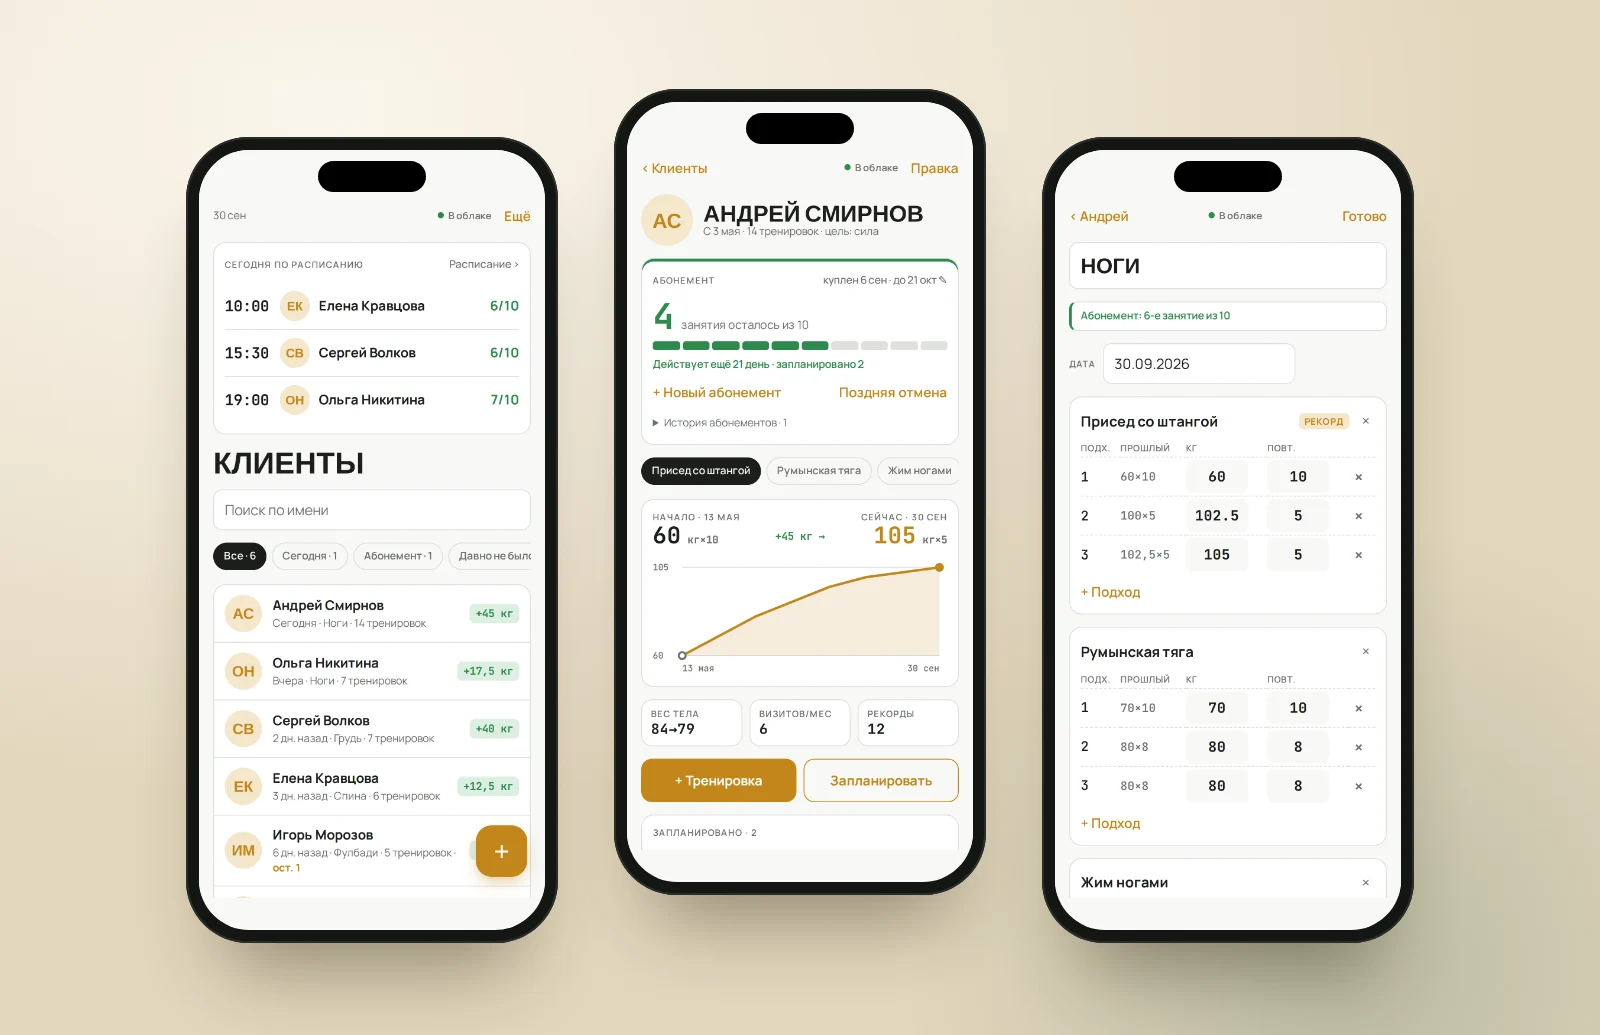
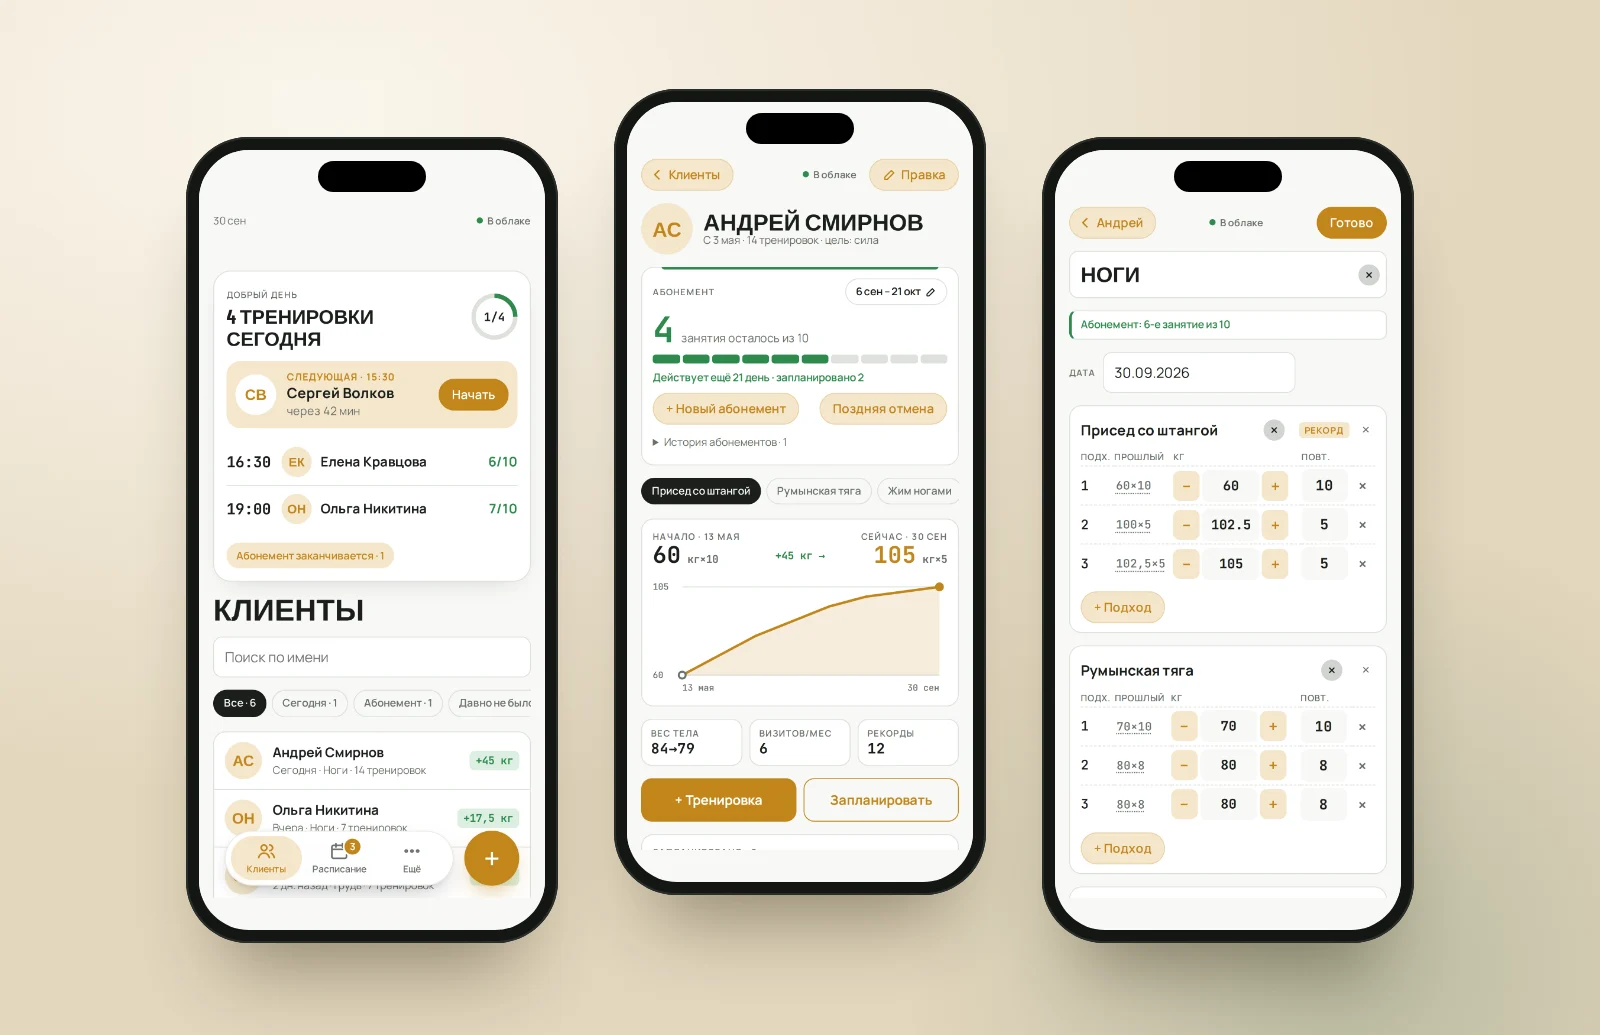
Update trainer journal case: new screenshots and features
Fresh screenshots of the current app (day status, pill tab bar,
±2.5 kg steppers, notification settings), updated feature list,
UX and audit paragraph, and WebApplication schema.

Claude-Session: https://claude.ai/code/session_016RatQZVUz716yK2VSFB6Jr

diff --git a/case-yana-samoylova.html b/case-yana-samoylova.html
@@ -195,22 +195,25 @@ document.documentElement.classList.add('js');try{if(sessionStorage.getItem('nav-
       "@id": "https://antonioavanzato.github.io/case-yana-samoylova.html#app",
       "name": "Журнал Зала",
       "alternateName": "PWA-журнал тренера Яны Самойловой",
-      "description": "Личное PWA-приложение персонального тренера для iPhone: карточки клиентов, журнал тренировок с весами и подходами, прогресс «было → стало» с графиком, абонементы со сроком действия и автосписанием, расписание и push-уведомления. Работает офлайн и синхронизируется с облаком.",
+      "description": "Личное PWA-приложение персонального тренера для iPhone: сводка дня, карточки клиентов, журнал тренировок с весами и подходами, прогресс «было → стало» с графиком, абонементы со сроком действия и автосписанием, расписание и push-уведомления. Работает офлайн, синхронизируется с облаком и еженедельно делает бэкап.",
       "applicationCategory": "BusinessApplication",
       "applicationSubCategory": "Фитнес, учёт клиентов",
       "operatingSystem": "iOS 16.4+, Android, веб (PWA)",
       "browserRequirements": "Требуется современный браузер; установка на экран «Домой»",
       "inLanguage": "ru-RU",
       "featureList": [
+        "Сводка дня: количество тренировок, следующий клиент с обратным отсчётом, прогресс дня",
         "Карточки клиентов с фото, целью и весом тела",
         "Журнал тренировок: упражнения, подходы, кг × повторы, подсказка прошлого результата",
+        "Кнопки ±2,5 кг и повтор прошлой тренировки в одно касание",
         "Прогресс «было → стало» с графиком и отметкой рекордов",
         "Абонементы на 5 и 10 занятий со сроком действия и автоматическим списанием",
         "Учёт поздних отмен",
-        "Расписание с повторами и прогнозом остатка абонемента",
+        "Расписание с повторами, счётчиком записей и прогнозом остатка абонемента",
         "Push-уведомления: утренняя сводка и напоминание перед тренировкой",
+        "Удаление с возможностью отмены",
         "Офлайн-режим и синхронизация через Firebase",
-        "Экспорт и импорт данных"
+        "Еженедельный автоматический бэкап на Google Диск, экспорт и импорт данных"
       ],
       "screenshot": [
         {
@@ -218,14 +221,14 @@ document.documentElement.classList.add('js');try{if(sessionStorage.getItem('nav-
           "url": "https://antonioavanzato.github.io/images/yanapro-journal-1.webp",
           "width": 1600,
           "height": 1035,
-          "caption": "Журнал Зала: список клиентов, карточка с абонементом и графиком прогресса, журнал тренировки"
+          "caption": "Журнал Зала: сводка дня и список клиентов, карточка с абонементом и графиком прогресса, журнал тренировки"
         },
         {
           "@type": "ImageObject",
           "url": "https://antonioavanzato.github.io/images/yanapro-journal-2.webp",
           "width": 1600,
           "height": 1035,
-          "caption": "Журнал Зала: расписание, push-уведомления на экране блокировки, новый абонемент"
+          "caption": "Журнал Зала: расписание, push-уведомления на экране блокировки, настройки уведомлений"
         }
       ],
       "softwareHelp": {
@@ -254,7 +257,8 @@ document.documentElement.classList.add('js');try{if(sessionStorage.getItem('nav-
         "@type": "Audience",
         "audienceType": "Персональный фитнес-тренер"
       },
-      "datePublished": "2026-09-28"
+      "datePublished": "2026-09-28",
+      "dateModified": "2026-09-30"
     },
     {
       "@type": "BreadcrumbList",
@@ -466,34 +470,41 @@ document.documentElement.classList.add('js');try{if(sessionStorage.getItem('nav-
           я сделал ей <strong>личное PWA-приложение</strong>: оно ставится на iPhone
           с сайта, как обычное, без App Store.</p>
         <ul class="case-list">
+          <li>Сводка дня на главном экране: сколько тренировок сегодня, кто следующий и через сколько, кнопка «Начать»</li>
           <li>Карточки клиентов с фото, целью, весом тела и заметками</li>
-          <li>Журнал тренировок: упражнения и подходы «кг × повторы», рядом серым подсказка прошлого раза</li>
+          <li>Журнал тренировок: подходы «кг × повторы» с подсказкой прошлого раза, кнопки ±2,5 кг и повтор прошлой тренировки в одно касание</li>
           <li>Прогресс «было → стало» с графиком по каждому упражнению и отметкой «Рекорд»</li>
           <li>Абонементы на 5 и 10 занятий со сроком действия: остаток считается сам, поздняя отмена списывает занятие</li>
-          <li>Расписание с повторами по неделям и предупреждением, если абонемента не хватит</li>
+          <li>Расписание с повторами по неделям, счётчиком на вкладке и предупреждением, если абонемента не хватит</li>
           <li>Push-уведомления: утренняя сводка на день и напоминание перед тренировкой</li>
-          <li>Работает без интернета в зале и сам синхронизируется с облаком</li>
+          <li>Удаление с кнопкой «Отменить», работа без интернета и еженедельный бэкап на Google Диск</li>
         </ul>
+        <p>Интерфейс сделан по канонам iOS: плавающее меню-«пилюля», которое прячется
+          при прокрутке, окна снизу со смахиванием, крупные кнопки под большой палец
+          и тёмная тема вслед за системой. Перед запуском я провёл полный аудит:
+          проверил безопасность данных, расчёты абонементов и расписания, а рассылку
+          уведомлений перестроил так, чтобы она укладывалась в бесплатные лимиты
+          Firebase с многократным запасом.</p>
         <p>Техническая часть: интерфейс на чистом HTML, CSS и JavaScript без сборки,
           данные в <strong>Firebase Firestore</strong> с офлайн-кешем на телефоне и вход
           по почте и паролю. Push-уведомления доставляет Firebase Cloud Messaging,
-          а рассылку по расписанию каждые 5 минут делает бесплатный скрипт
-          на <strong>Google Apps Script</strong>. Своего сервера нет, поэтому
+          а рассылку по расписанию раз в минуту и еженедельные бэкапы делает бесплатный
+          скрипт на <strong>Google Apps Script</strong>. Своего сервера нет, поэтому
           и платить за хостинг не нужно.</p>
       </div>
     </div>
 
     <figure class="case-shot reveal">
-      <img src="images/yanapro-journal-1.webp?v=2"
-           alt="Приложение «Журнал Зала» на трёх iPhone: список клиентов с расписанием на сегодня, карточка клиента с абонементом и графиком прогресса, журнал тренировки с подходами и отметкой рекорда"
+      <img src="images/yanapro-journal-1.webp?v=3"
+           alt="Приложение «Журнал Зала» на трёх iPhone: сводка дня со следующим клиентом и списком клиентов, карточка клиента с абонементом и графиком прогресса, журнал тренировки с кнопками ±2,5 кг и отметкой рекорда"
            width="1600" height="1035" loading="lazy" decoding="async">
-      <figcaption>Клиенты с приростом в килограммах, карточка с абонементом и графиком «с 60 до 105 кг», запись тренировки с подсказкой прошлого результата. Данные на скриншотах демонстрационные.</figcaption>
+      <figcaption>Сводка дня и клиенты с приростом в килограммах, карточка с абонементом и графиком «с 60 до 105 кг», запись тренировки с подсказкой прошлого результата и кнопками ±2,5 кг. Данные на скриншотах демонстрационные.</figcaption>
     </figure>
     <figure class="case-shot reveal">
-      <img src="images/yanapro-journal-2.webp?v=2"
-           alt="Приложение «Журнал Зала»: расписание тренировок по дням, push-уведомления на экране блокировки iPhone и окно нового абонемента на 10 занятий"
+      <img src="images/yanapro-journal-2.webp?v=3"
+           alt="Приложение «Журнал Зала»: расписание тренировок по дням, push-уведомления на экране блокировки iPhone и настройки уведомлений"
            width="1600" height="1035" loading="lazy" decoding="async">
-      <figcaption>Расписание по дням с номером занятия в абонементе, напоминания на экране блокировки и оформление нового абонемента в два касания.</figcaption>
+      <figcaption>Расписание по дням с номером занятия в абонементе, напоминания на экране блокировки и настройка утренней сводки и напоминаний.</figcaption>
     </figure>
 
     <div class="case-block reveal">
